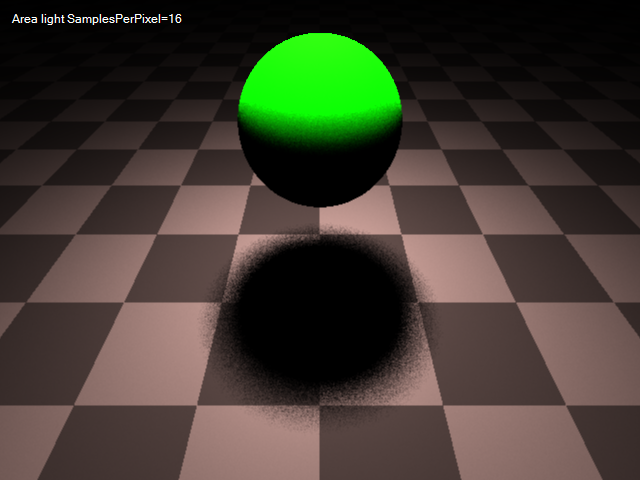
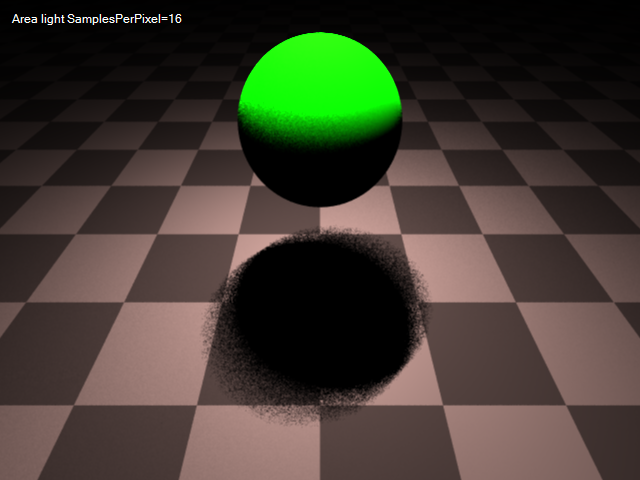
Stratified Sampling : fix clone + unit tests

diff --git a/pbrt/Pbrt.Tests/Samplers/StratifiedSamplerTests.cs b/pbrt/Pbrt.Tests/Samplers/StratifiedSamplerTests.cs
@@ -1,0 +1,148 @@
+using System;
+using System.Linq;
+using NFluent;
+using NUnit.Framework;
+using pbrt.Core;
+using pbrt.Samplers;
+
+namespace Pbrt.Tests.Samplers
+{
+    [TestFixture]
+    public class StratifiedSamplerTests
+    {
+        private readonly StratifiedSampler sampler = new StratifiedSampler(2, 2, true, 1);
+
+        [Test]
+        public void BasicTest()
+        {
+            Check.That(sampler.JitterSamples).IsTrue();
+            Check.That(sampler.XPixelSamples).IsEqualTo(2);
+            Check.That(sampler.YPixelSamples).IsEqualTo(2);
+            Check.That(sampler.NSampledDimensions).IsEqualTo(1);
+        }
+
+        [Test]
+        public void Stratified1D_NoJitterTest()
+        {
+            int n = 10;
+            var rng = new Random(0);
+            float[] samples = new float[n];
+            StratifiedSampler.StratifiedSample1D(samples, 0, n, rng, false);
+
+            for (int i = 0; i < n; i++)
+            {
+                Check.That(samples[i]).IsCloseTo((i+0.5f)/n, 1e-3);
+            }
+        }
+
+        [Test]
+        public void Stratified1D_JitterTest()
+        {
+            int m = 10000;
+            int n = 10;
+            var rng = new Random(0);
+            float[] samples = new float[n];
+            float[] sumSamples = new float[n];
+
+            for (int j = 0; j < m; j++)
+            {
+                StratifiedSampler.StratifiedSample1D(samples, 0, n, rng, true);
+                for (int i = 0; i < n; i++)
+                {
+                    sumSamples[i] += samples[i];
+                }
+            }
+
+            for (int i = 0; i < n; i++)
+            {
+                Check.That(sumSamples[i]/m).IsCloseTo((i + 0.5f) / n, 1e-3);
+            }        
+        }
+        
+        [Test]
+        public void Stratified2D_NoJitterTest()
+        {
+            int nx = 3;
+            int ny = 4;
+            var rng = new Random(0);
+            var samples = Enumerable.Range(0, nx * ny).Select(_ => new Point2F()).ToArray();
+            StratifiedSampler.StratifiedSample2D(samples, nx, ny, rng, false);
+
+            int k = 0;
+            for (int j = 0; j < ny; j++)
+            {
+                for (int i = 0; i < nx; i++)
+                {
+                    var point2F = samples[k];
+                    var expectedX = (i+0.5f)/nx;
+                    Check.That(point2F.X).IsCloseTo(expectedX, 1e-3);
+                    var expectedY = (j+0.5f)/ny;
+                    Check.That(point2F.Y).IsCloseTo(expectedY, 1e-3);
+                    k++;
+                }
+            }
+        }
+
+        [Test]
+        public void Stratified2D_JitterTest()
+        {
+            int m = 100_000;
+            int nx = 2;
+            int ny = 1;
+            var rng = new Random(0);
+            var samples = Enumerable.Range(0, nx * ny).Select(_ => new Point2F()).ToArray();
+            StratifiedSampler.StratifiedSample2D(samples, nx, ny, rng, false);
+            Point2F[] sumSamples = Enumerable.Range(0, nx * ny).Select(_ => new Point2F()).ToArray();;
+
+            for (int j = 0; j < m; j++)
+            {
+                StratifiedSampler.StratifiedSample2D(samples, nx, ny, rng, true);
+                for (int i = 0; i < nx*ny; i++)
+                {
+                    sumSamples[i] += samples[i];
+                }
+            }
+
+            int k = 0;
+            for (int j = 0; j < ny; j++)
+            {
+                for (int i = 0; i < nx; i++)
+                {
+                    var point2F = sumSamples[k];
+                    var expectedX = (i+0.5f)/nx;
+                    Check.That(point2F.X / m).IsCloseTo(expectedX, 1e-3);
+                    var expectedY = (j+0.5f)/ny;
+                    Check.That(point2F.Y/ m).IsCloseTo(expectedY, 1e-3);
+                    k++;
+                }
+            }
+        }
+
+        [Test]
+        public void ShuffleTest()
+        {
+            var rng = new Random(0);
+            int n = 10;
+            int[] values = Enumerable.Range(1, n).ToArray();
+            int[] sumValues = new int[n];
+            int m = 1_000_000;
+            
+            for (int i = 0; i < m; i++)
+            {
+                StratifiedSampler.Shuffle(values, 0, n, 1, rng);
+                for (int j = 0; j < n; j++)
+                {
+                    sumValues[j] += values[j];
+                }
+            }
+
+            float expectedValue = m*(n + 1) / 2f; 
+            for (int j = 0; j < n; j++)
+            {
+                var sumValue = (float)sumValues[j];
+                var ratio = sumValue / expectedValue; 
+                Check.That(ratio).IsCloseTo(1, n*MathF.Sqrt(m));
+            }
+        }
+    }
+}

diff --git a/pbrt/pbrt/Samplers/StratifiedSampler.cs b/pbrt/pbrt/Samplers/StratifiedSampler.cs
@@ -1,4 +1,5 @@
 using System;
+using System.Linq;
 using pbrt.Core;
 
 namespace pbrt.Samplers
@@ -55,7 +56,7 @@ namespace pbrt.Samplers
             base.StartPixel(p);
         }
         
-        public void LatinHypercube(Point2F[] samples, int nSamples, Random rng) 
+        public static void LatinHypercube(Point2F[] samples, int nSamples, Random rng) 
         {
             // Generate LHS samples along diagonal 
             float invNSamples = 1f / nSamples;
@@ -78,7 +79,7 @@ namespace pbrt.Samplers
             }
         }        
         
-        public void StratifiedSample1D(float[] samp, int start, int nSamples, Random rng, bool jitter) 
+        public static void StratifiedSample1D(float[] samp, int start, int nSamples, Random rng, bool jitter) 
         {
             var invNSamples = 1f / nSamples;
             for (int i = start; i < nSamples; ++i) 
@@ -88,7 +89,7 @@ namespace pbrt.Samplers
             }
         }    
         
-        public void StratifiedSample2D(Point2F[] samp, int nx, int ny, Random rng, bool jitter)
+        public static void StratifiedSample2D(Point2F[] samp, int nx, int ny, Random rng, bool jitter)
         {
             var dx = 1f / nx;
             var dy = 1f / ny;
@@ -124,8 +125,21 @@ namespace pbrt.Samplers
         
         public override AbstractSampler Clone(int seed)
         {
-            var sampler = MemberwiseClone();
-            return (AbstractSampler)sampler;
+            var sampler = new StratifiedSampler(XPixelSamples, YPixelSamples, JitterSamples, NSampledDimensions, seed);
+            sampler.Samples1DArraySizes.AddRange(Samples1DArraySizes);
+            sampler.Samples2DArraySizes.AddRange(Samples2DArraySizes);
+            foreach (var sampleArray1D in SampleArray1D)
+            {
+                var copy = sampleArray1D.ToArray();
+                sampler.SampleArray1D.Add(copy);
+            }
+            foreach (var sampleArray2D in SampleArray2D)
+            {
+                var copy = sampleArray2D.ToArray();
+                sampler.SampleArray2D.Add(copy);
+            }
+
+            return sampler;
         }
     }
 }

diff --git a/pbrt/pbrt/Integrators/DirectLightingIntegrator.cs b/pbrt/pbrt/Integrators/DirectLightingIntegrator.cs
@@ -130,7 +130,9 @@ namespace pbrt.Integrators
                     Spectrum Ld = new(0f);
                     for (int k = 0; k < nSamples; ++k)
                     {
-                        Ld += EstimateDirect(it, uScatteringArray[k], light, uLightArray[k], scene, sampler, handleMedia);
+                        var uScattering = uScatteringArray[k];
+                        var point2F = uLightArray[k];
+                        Ld += EstimateDirect(it, uScattering, light, point2F, scene, sampler, handleMedia);
                     }
 
                     L += Ld / nSamples;
